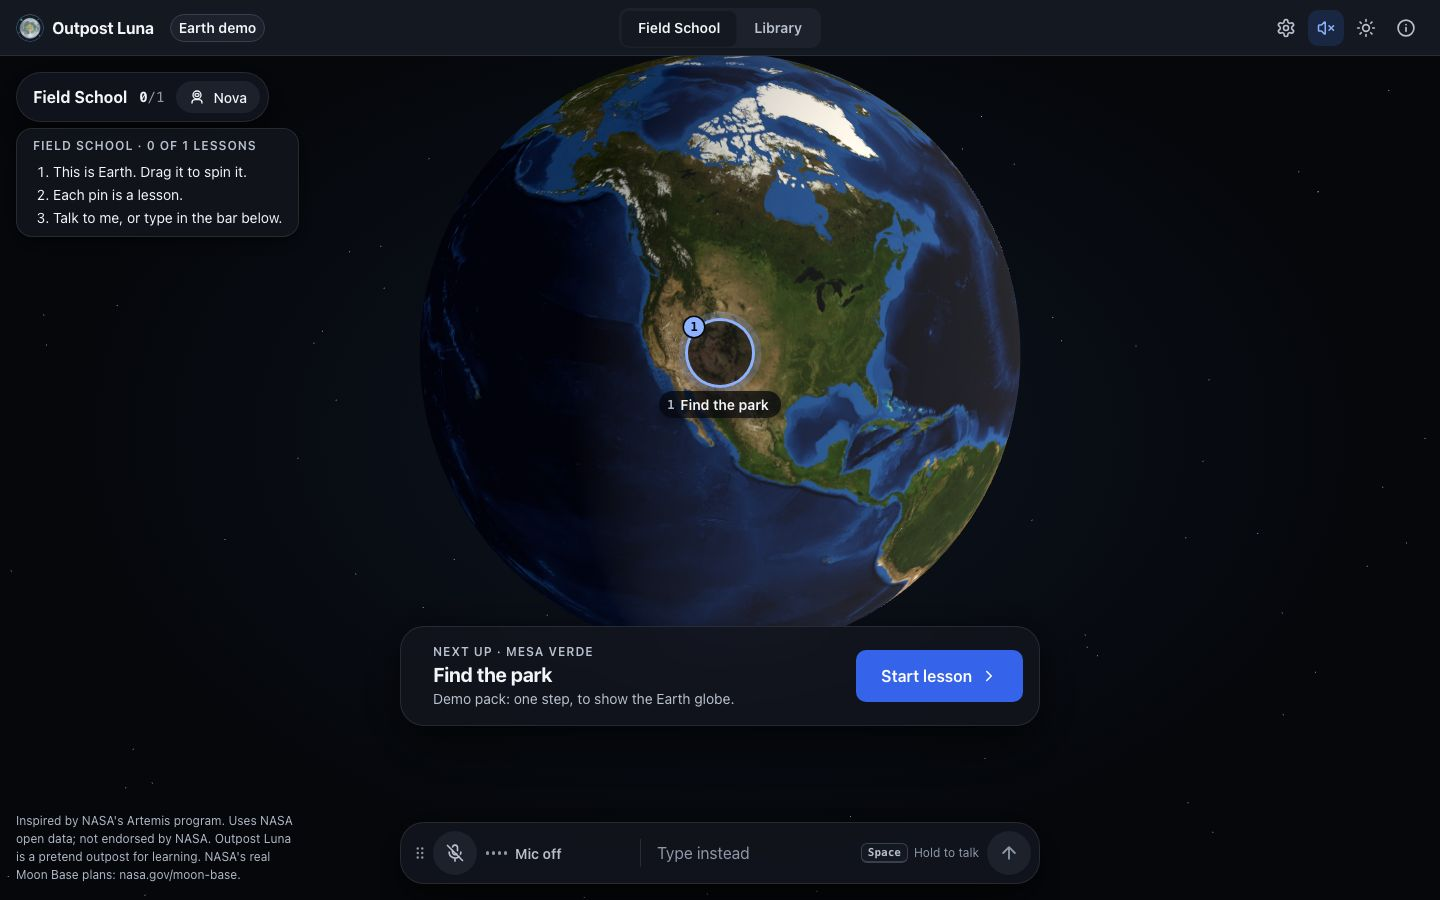
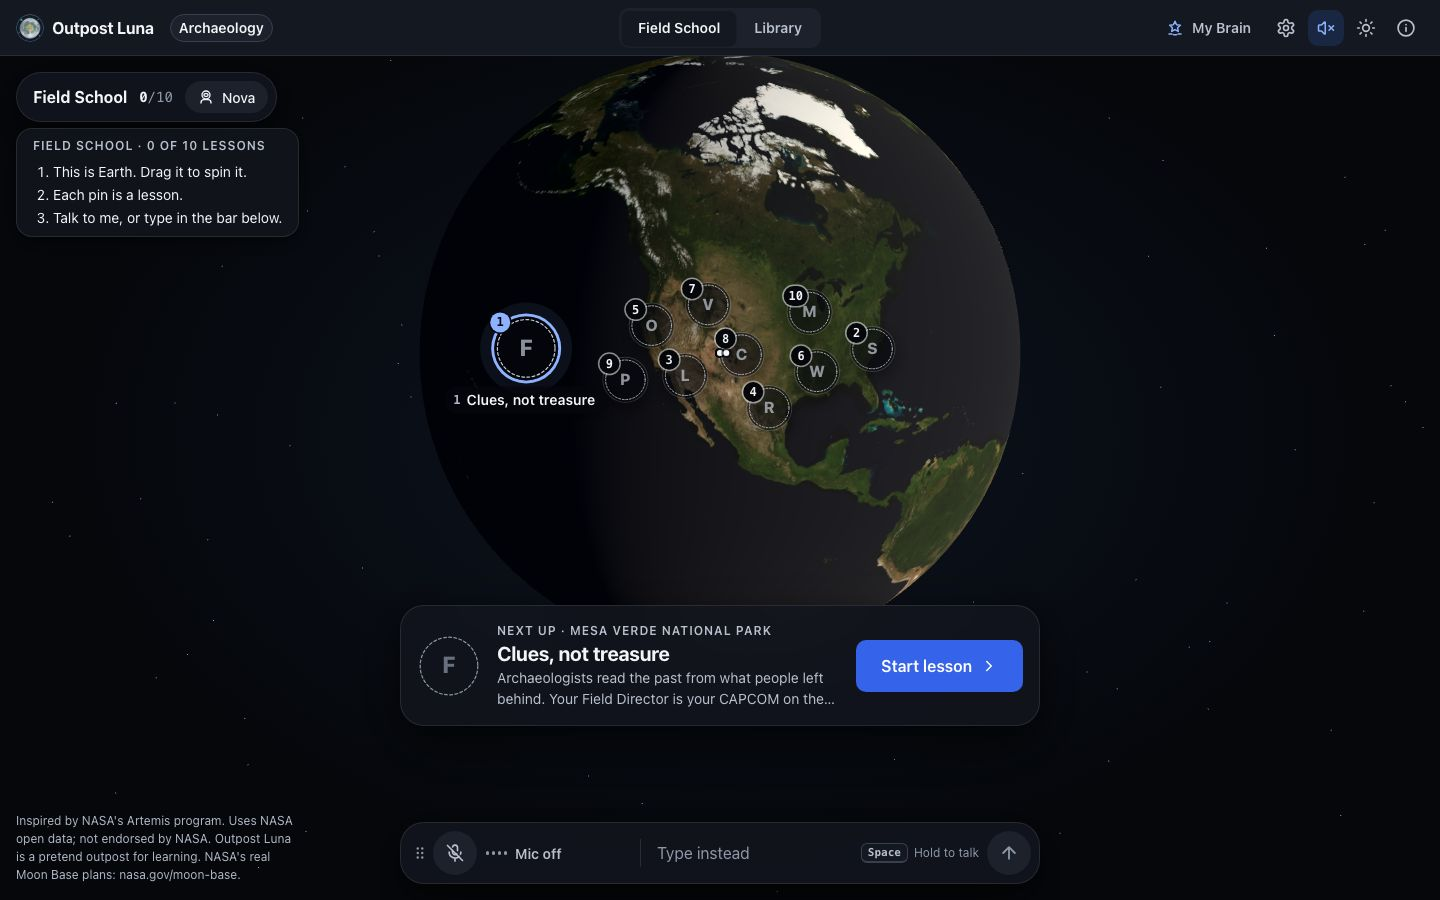
Courses: screenshots of the real Archaeology pack (switcher, Earth globe)

diff --git a/docs/COURSES.md b/docs/COURSES.md
@@ -495,9 +495,9 @@ stay off on another body: the real-sky / hardware / rocks / sharp-pole views (`w
 the mission layer (a course without an `outpost` mission never starts one). Pins and the gazetteer are the course's
 (`/api/places` reads the active course's places).
 - The Earth map ships IN the course pack (`media/<name>`, served at `/api/courses/<id>/media/<name>`), never in the
-  installer. The plan is the NASA Blue Marble 5400×2700 (§6). On 2026-11-19 `eoimages.gsfc.nasa.gov` was unreachable from
-  the build machine, so the screenshots use NASA's Blue Marble Next Generation 3600×1800 (Wikimedia Commons copy,
-  public domain). The pack builder takes any map as `COURSE_EARTH_MAP`; put the 5400 file there for the real pack.
+  installer: Archaeology carries the NASA Blue Marble 5400×2700 (`media/earth5400.jpg`, credits in `media/credits.json`).
+  The builder can take another map as `COURSE_EARTH_MAP`.
+- Screenshots (the real Archaeology pack, installed through the local fallback): `img/courses/p2_*.jpg`.
 
 **A pack's source and its build.** The content author writes `backend/data/courses/<id>.json` (status `pack`, paths
 under `courses/<id>/`) and the folder `backend/data/courses/<id>/` (lessons, places, entities, ear vocab, `media/`).
